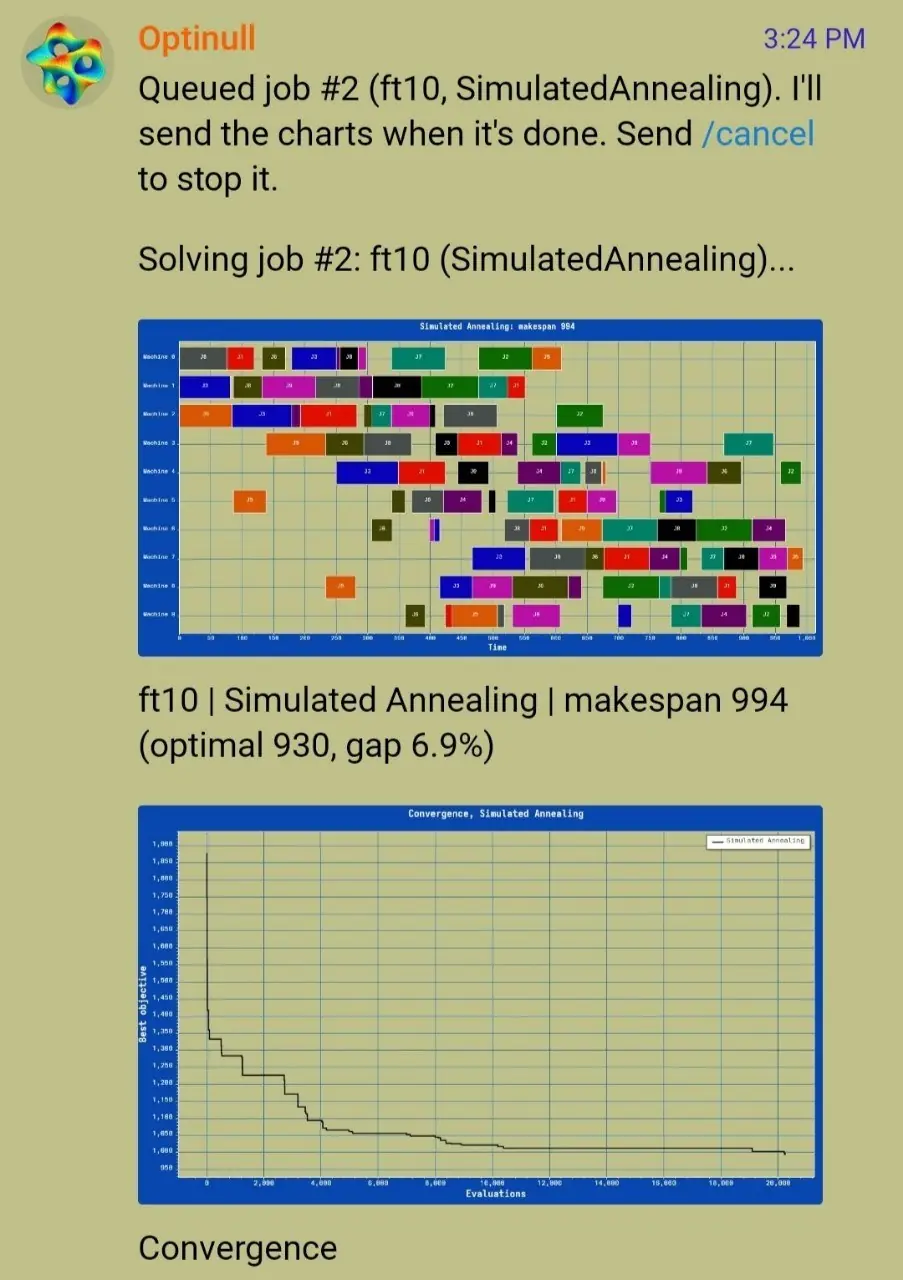
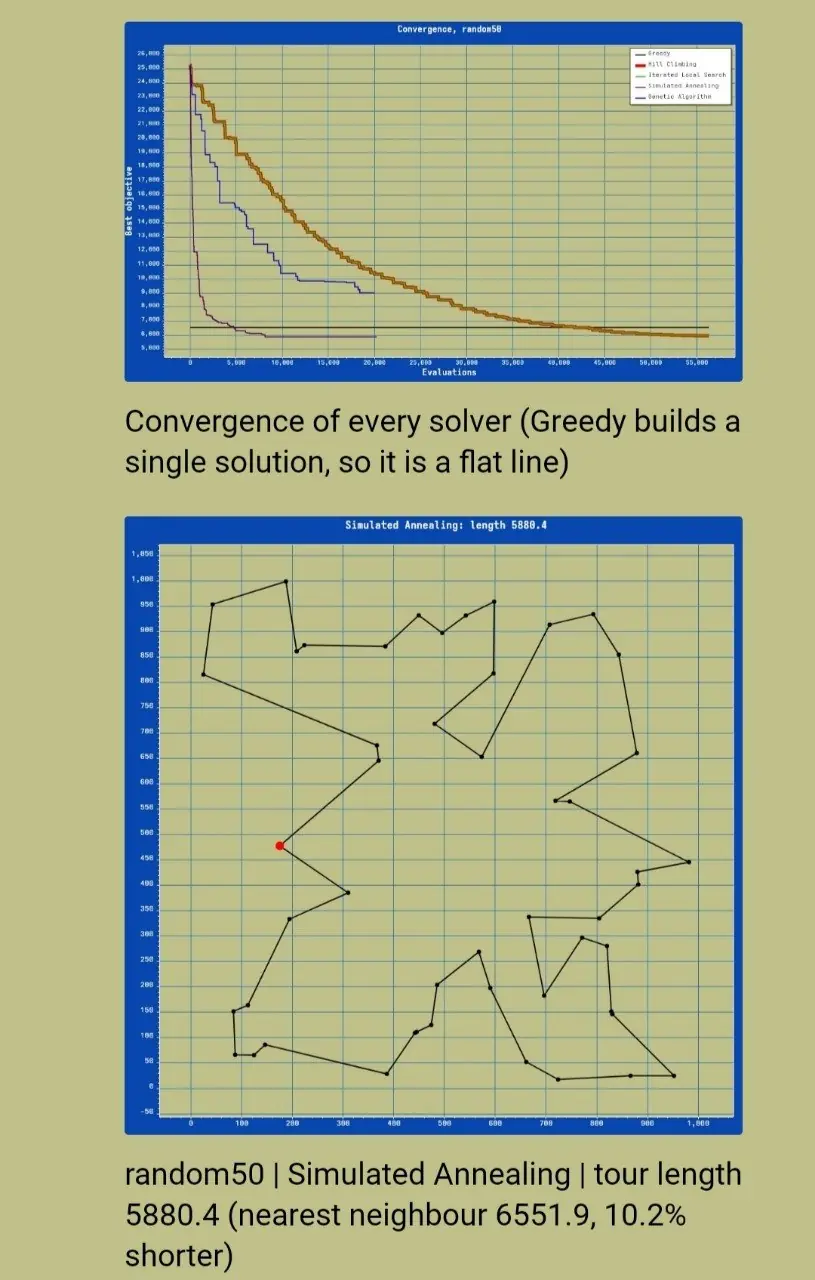
[README] update screenshots

diff --git a/docs/README.md b/docs/README.md
@@ -473,7 +473,11 @@ The screenshots below show Optinull's Telegram interface, optimization results, 
     <td align="center"><img src="images/screenshots/theory-vrp-compare.webp" alt="Vehicle routing solver comparison" width="440"><br><sub>Vehicle routing comparison</sub></td>
   </tr>
   <tr>
-    <td align="center"><img src="images/screenshots/tsp-compare-conv.webp" alt="TSP solver comparison and convergence" width="440"><br><sub>TSP comparison and convergence</sub></td>
+    <td align="center"><img src="images/screenshots/knapsack-overview.webp" alt="Knapsack overview" width="440"><br><sub>Knapsack overview</sub></td>
+    <td align="center"><img src="images/screenshots/jobshop-overview.webp" alt="JobShop overview" width="440"><br><sub>JobShop overview</sub></td>
+  </tr>
+  <tr>
+    <td align="center"><img src="images/screenshots/jobshop-compare-conv.webp" alt="JobShop solver comparison and convergence" width="440"><br><sub>JobShop comparison and convergence</sub></td>
     <td align="center"><img src="images/screenshots/tsp-overview.webp" alt="TSP overview" width="440"><br><sub>TSP overview</sub></td>
   </tr>
 </table>
